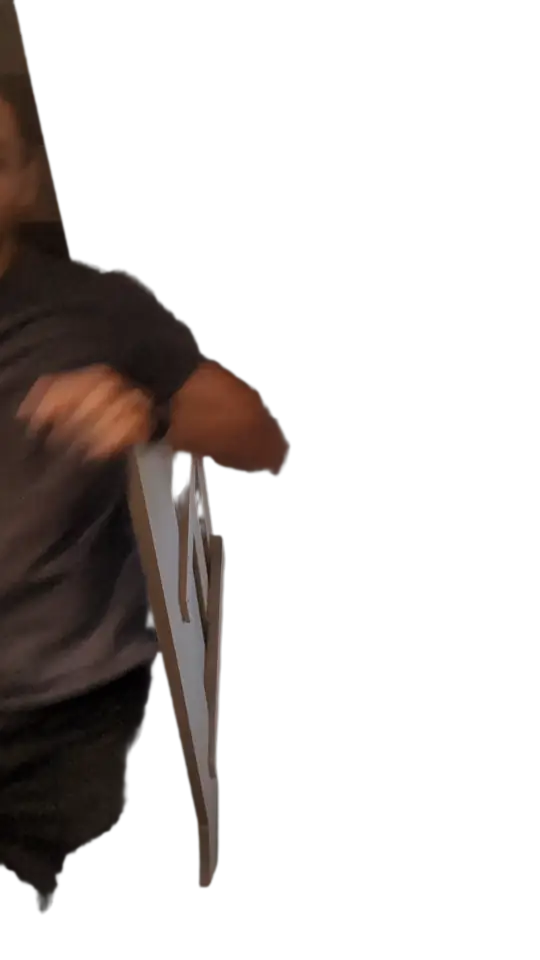
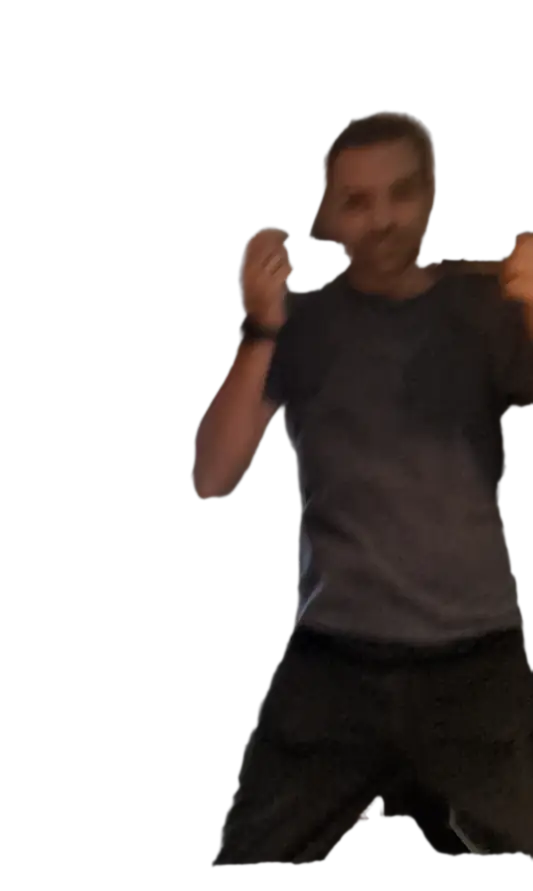
Ta-da mains entières (vidéo 14), mains jamais coupées, poses larges entières
Claude-Session: https://claude.ai/code/session_01R6DUM49Xp7ncrfUeTSexyi

diff --git a/js/app.js b/js/app.js
@@ -87,13 +87,13 @@
       main: { x: .137, y: 0.401, taille: .1353, contact: "poing" } },
     { id: "pouce", nom: "Victoire", contour: true, video: 28, mascotte: "pouce", cote: "droite", emoji: "✌",
       consigne: "Double V et ton plus beau sourire, toutes dents dehors !", geste: "Pouce en l'air !",
-      photo: { tete: [.239, .394, .57], hh: .24, top: .15, dx: .17, echelle: .72, colle: true }, bouche: [0.573, 0.354, 0.064] },
+      photo: { tete: [.239, .394, .57], hh: .24, top: .15, dx: .17, entier: true }, bouche: [0.573, 0.354, 0.064] },
     { id: "cool", nom: "Cool", contour: true, video: 32, mascotte: "pouce", cote: "droite", emoji: "🤙",
       consigne: "Fais le signe « cool » comme lui !", geste: "Fais le signe cool !",
       photo: { tete: [0.139, 0.326, .438], hh: .24, top: .15, dx: .17 }, bouche: [0.472, 0.279, 0.081] },
     { id: "coeur", nom: "Cœur", contour: true, video: 33, mascotte: "coeur", cote: "droite", emoji: "🫶",
       consigne: "Fais un cœur avec tes mains, comme lui !", geste: "Fais un cœur avec tes mains",
-      photo: { tete: [0.189, 0.362, .338], hh: .24, top: .15, dx: .17 }, bouche: [0.375, 0.319, 0.084] },
+      photo: { tete: [0.189, 0.362, .338], hh: .24, top: .15, dx: .17, entier: true }, bouche: [0.375, 0.319, 0.084] },
     { id: "pointe", nom: "Montre du doigt", contour: true, video: 34, mascotte: "pointe-du-doigt", cote: "droite", emoji: "👉",
       consigne: "Montre-le du doigt, comme lui !", geste: "Montre-moi du doigt !",
       photo: { tete: [0.097, 0.309, .66], hh: .24, top: .15, dx: .17 }, bouche: [0.607, 0.258, 0.089] },
@@ -102,15 +102,15 @@
       photo: { tete: [.23, .392, .647], hh: .24, top: .15, dx: .17 }, bouche: [0.613, 0.348, 0.058] },
     { id: "bras-croises", nom: "Bras croisés", contour: true, video: 37, mascotte: "bras-croises", cote: "droite", emoji: "💪",
       consigne: "Croise les bras, l'air sûr de toi, comme lui !", geste: "Croise les bras, l'air sûr de toi",
-      photo: { tete: [0.043, 0.236, .468], hh: .24, top: .15, dx: .17 }, bouche: [0.473, 0.188, 0.081] },
+      photo: { tete: [0.043, 0.236, .468], hh: .24, top: .15, dx: .17, entier: true }, bouche: [0.473, 0.188, 0.081] },
     { id: "mains-hanches", nom: "Tape dans mes mains", video: 30, mascotte: "mains-hanches", cote: "droite", emoji: "🙌",
       consigne: "Mains à plat au-dessus des siennes : tape dedans !", geste: "Mains sur les hanches, en champion !",
       cible: { x: .213, y: 0.597, texte: "tes mains ici" },
       photo: { tete: [0.11, 0.307, .736], hh: .24, top: .15, dx: .17 }, bouche: [0.688, 0.263, 0.063],
       main: { x: .213, y: 0.656, taille: .0858, contact: "dessous" } },
     { id: "tada", nom: "Ta-da !", contour: true, video: 20, mascotte: "mains-hanches", cote: "droite", emoji: "🎉",
-      consigne: "Bras grands ouverts : ta-da !", geste: "Bras grands ouverts : ta-da !",
-      photo: { tete: [.32, .486, .544], hh: .24, top: .15, dx: .17, echelle: .78, colle: true }, bouche: [.537, .446, .079] }
+      consigne: "Mains ouvertes, grand sourire : ta-da !", geste: "Mains ouvertes : ta-da !",
+      photo: { tete: [.324, .481, .425], hh: .24, top: .15, dx: .17, entier: true }, bouche: [.431, .441, .064] }
   ];
   // la consigne à donner : l'autre moitié du geste s'il y a la photo du créateur, sinon le geste simple
   const consigneDe = p => p.createur ? p.consigne : (p.geste || p.consigne);
@@ -128,6 +128,10 @@
         const g = k.getContext("2d", { willReadFrequently: true }); g.drawImage(c, 0, 0, 40, 80);
         const col = x => { const d = g.getImageData(x, 0, 1, 80).data; let n = 0; for (let i = 3; i < d.length; i += 4) if (d[i] > 128) n++; return n > 2; };
         p.bordG = col(0); p.bordD = col(39);
+        // largeur réelle de son corps dans l'image (pour ne jamais couper ses mains)
+        let x0 = 40, x1 = 0;
+        for (let x = 0; x < 40; x++) if (col(x)) { x0 = Math.min(x0, x); x1 = x + 1; }
+        p.corps = x1 > x0 ? [x0 / 40, x1 / 40] : [0, 1];
       } catch (e) {}
     };
     c.src = `assets/createur/${p.id}.webp`;
@@ -176,6 +180,16 @@
     let w = h * ratio;
     let x = (p.cote === "droite" ? W - dx * H : dx * H) - cx * w;
     if (p.photo.colle) x = p.cote === "droite" ? W - w : 0;   // toute la largeur de sa vidéo visible
+    const [b0, b1] = p.corps || [0, 1];
+    if (p.photo.entier) {                                    // pose large : il tient en entier dans la largeur
+      const bw = (b1 - b0) * w, lim = W * .96;
+      if (bw > lim) { const k = lim / bw, yt = y + t * h; h *= k; w *= k; y = yt - t * h; }
+      x = W * .98 - b1 * w;                                  // collé à droite, sans rien couper
+    }
+    // ce qui est tendu vers l'utilisateur (main, poing, doigt) ne sort jamais de l'image
+    const bord = W * .02;
+    if (p.cote === "droite" && x + b0 * w < bord) x = bord - b0 * w;
+    if (p.cote === "gauche" && x + b1 * w > W - bord) x = W - bord - b1 * w;
     if (p.main && main) {
       const pm = p.main, hv = h;
       h = Math.max(hv * .8, Math.min(hv * 1.2, main.taille * H / pm.taille));   // même taille de main (sans exagérer)

diff --git a/sw.js b/sw.js
@@ -4,7 +4,7 @@
 // - Images, sons, police : copie locale d'abord (lourds et ils changent rarement).
 // - Les fichiers sont toujours téléchargés en contournant le cache du navigateur ({ cache: "reload" }),
 //   sinon une copie vieille de quelques minutes pourrait être gardée par erreur.
-const VERSION = "beufa-v50";
+const VERSION = "beufa-v51";
 // détection du brossage (~18 Mo) : gardée à part, téléchargée seulement au premier brossage avec caméra,
 // et pas re-téléchargée à chaque nouvelle version de l'appli (changer ce nom si on change de modèle)
 const VISION = "beufa-vision-1.2.2";

diff --git a/IDEES.md b/IDEES.md
@@ -315,4 +315,7 @@ Pas de publication sur le Play Store.
   du corps et toujours adouci. Vérifié pose par pose sur le décor.
 - [x] **Menu pause** pendant le brossage : bouton ⏸ (et ⏸ dans le studio photo), « Reprendre » / « Arrêter le brossage » ;
   pause automatique si l'appli passe en arrière-plan. Test : `?poses=tada,pouce` impose les poses des photos.
+- [x] Ta-da refait avec la vidéo n°14 (il saute dans l'image, mains ouvertes : les deux mains dans le champ). Règle générale :
+  ce qu'il tend vers l'utilisateur ne sort jamais de l'image ; poses larges (`entier`) réduites pour tenir en entier
+  (double V, cœur, bras croisés, ta-da). Vérifié par simulation sur les 10 poses, deux tailles d'utilisateur.
 
